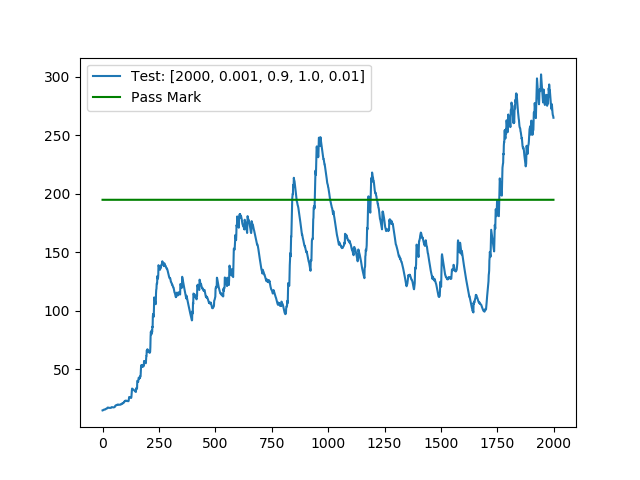
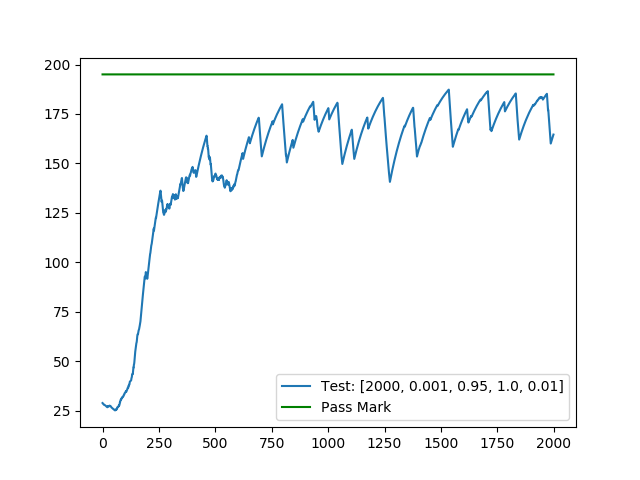
Adding of Testing routines + small changes

diff --git a/cartpole_DQN.py b/cartpole_DQN.py
@@ -1,0 +1,81 @@
+##  Copyright (C) 2018 J. Schurer
+##  This file is for testing the OpenAI gym environments
+
+
+import gym
+import numpy as np
+import scipy as sc
+import matplotlib.pyplot as plt
+from agents.DQNAgent import DQNAgent
+from pylab import *
+
+def low_pass(data, alpha=0.99):
+    low_pass = [data[0]]
+    for i in range(1,len(data)):
+        low_pass.append(alpha*low_pass[-1] + (1.0-alpha)*data[i] )
+    return low_pass
+
+
+if __name__ == '__main__':
+    # Make Evironment
+    env = gym.make('CartPole-v0')
+    
+    # Make Agent
+    episode_count = 3000
+    learnRates = [1e-4, 5e-4, 1e-3] #np.linspace(0.0001,0.001, num=3,endpoint=False)
+    discounts = [ 0.95 ] #[0.95, 0.97, 0.99]#np.linspace(0.94,0.96, num=3,endpoint=False)
+    epsi = [ 1.0]
+    epsi_decay  = [ 0.05, 0.01, 0.005, 0.001 ]
+    reward = 0
+    XlearnRate = 0
+    Xdiscount = 0
+    Xepsi = 0
+    Xdec = 0
+    rewards = []
+    for j in learnRates:
+        for k in discounts:
+            for ep in epsi:
+                for epdec in epsi_decay:
+                    params = [episode_count, j,k, ep, epdec]
+                    #params = [5000, 0.001,0.95, 1.1, 0.005]
+                    #params = [5000, 0.0005,0.99, 0.1]
+                    agent = DQNAgent(env.action_space,env.observation_space, params)
+            
+                    agent._render = False
+                    rewardList, stepList =  agent.train(env)
+                    rewards.append(rewardList)
+                    if reward < sum(rewards[-1])/episode_count:
+                        reward = sum(rewards[-1])/episode_count
+                        mytrainedAgent = agent
+                        XlearnRate = j
+                        Xdiscount = k
+                        Xepsi = ep
+                        Xdec = epdec
+                    plt.plot(low_pass(rewardList),label=("Test: "+str(params)))
+        
+    ## Train Agent
+    #agent._render = False
+    #rewardList, stepList =  agent.train(env)
+    #agent.saveModel(agent.checkpointpath)
+    
+    ## Load Agent
+    #agent.restoreModel(agent.checkpointpath + '.ckpt-20000')
+    #rewardList, stepList = agent.test(env)
+      
+    plot([195]*len(rewards[-1]), 'g', label="Pass Mark")
+    plt.legend()
+    plt.show()
+    print("Maximal Reward: " + str(reward) + "  at lr=" +str(XlearnRate) + "  and dis=" +str(Xdiscount) + "  and epsi=" +str(Xepsi) + "  and epsi_dec=" +str(Xdec))
+
+    
+    ###### TEST   #####
+    reward = []
+    mytrainedAgent.episode_count = 100
+    mytrainedAgent.epsi = mytrainedAgent.epsi_min
+    for kk in range(10):
+        rew, step = mytrainedAgent.test(env)
+        reward.append(sum(rew))
+    print("Average Reward after 100 Episodes: " + str(sum(reward)/(100*10)))
+    
+    #print("Maximal Reward: " + str(reward) + "  at lr=" +str(XlearnRate) + "  and dis=" +str(Xdiscount))
+    env.close()

diff --git a/cartpole.py b/cartpole.py
@@ -1,0 +1,74 @@
+##  Copyright (C) 2018 J. Schurer
+##  This file is for testing the OpenAI gym environments
+
+
+import gym
+import numpy as np
+import scipy as sc
+import matplotlib.pyplot as plt
+from agents.qNNAgent import QNNAgent
+from pylab import *
+
+def low_pass(data, alpha=0.99):
+    low_pass = [data[0]]
+    for i in range(1,len(data)):
+        low_pass.append(alpha*low_pass[-1] + (1.0-alpha)*data[i] )
+    return low_pass
+
+
+if __name__ == '__main__':
+    # Make Evironment
+    env = gym.make('CartPole-v0')
+
+    # Make Agentparams = [episode_count, 0.8,0.8, 0.1]
+    episode_count = 2000
+    learnRates = [1e-3] #[ 1e-4,1e-3,1e-2]#np.linspace(0.0001,0.001, num=3,endpoint=False)
+    discounts = [0.95]#[ 0.90, 0.95, 0.99] #[0.95, 0.97, 0.99]#np.linspace(0.94,0.96, num=3,endpoint=False)
+    epsi = [1.0] #[ 0.1, 1.0]
+    epsi_decay  = [0.01]#[0.001, 0.005, 0.01]
+    reward = 0
+    XlearnRate = 0
+    Xdiscount = 0
+    Xepsi = 0
+    Xdec = 0
+    rewards = []
+    legs = []
+    for j in learnRates:
+        for k in discounts:
+            for ep in epsi:
+                for epdec in epsi_decay:
+                    params = [episode_count, j,k, ep, epdec]
+
+                    agent = QNNAgent(env.action_space,env.observation_space, params)
+                    agent._render = False
+    
+                    # Train Agent
+                    rewardList, stepList =  agent.train(env)
+                    rewards.append(rewardList)
+                    if reward < sum(rewardList[-1])/episode_count:
+                        reward = sum(rewardList[-1])/episode_count
+                        mytrainedAgent = agent
+                        XlearnRate = j
+                        Xdiscount = k
+                        Xepsi = ep
+                        Xdec = epdec
+                    p = plt.plot(low_pass(rewardList),label=("Test: "+str(params)))
+                    legs.append(p)
+
+    pm = plot([195]*len(rewards[-1]), 'g', label="Pass Mark")
+    legs.append(pm)
+    plt.legend()
+    plt.show()
+    print("Maximal Reward: " + str(reward) + "  at lr=" +str(XlearnRate) + "  and dis=" +str(Xdiscount) + "  and epsi=" +str(Xepsi) + "  and epsi_dec=" +str(Xdec))
+
+    
+        ###### TEST   #####
+    reward = []
+    mytrainedAgent.episode_count = 100
+    mytrainedAgent.epsi = mytrainedAgent.epsi_min
+    for kk in range(10):
+        rew, step = mytrainedAgent.test(env)
+        reward.append(sum(rew))
+    print("Average Reward after 100 Episodes: " + str(sum(reward)/(100*10)))
+    
+    #print("Maximal Reward: " + str(reward) + "  at lr=" +str(XlearnRate) + "  and dis=" +str(Xdiscount))

diff --git a/myFrozenLake.py b/myFrozenLake.py
@@ -1,0 +1,84 @@
+##  Copyright (C) 2018 J. Schurer
+##  This file is for testing the OpenAI gym environments
+
+
+
+import gym
+from gym import wrappers
+from agents.qtableAgent import QTableAgent
+from agents.qNNAgent import QNNAgent
+import matplotlib.pyplot as plt
+from pylab import *
+
+def low_pass(data, alpha=0.99):
+    low_pass = [data[0]]
+    for i in range(1,len(data)):
+        low_pass.append(alpha*low_pass[-1] + (1.0-alpha)*data[i] )
+    return low_pass
+    
+
+
+if __name__ == '__main__':
+    # Debug Flags
+    _debugOut = False 
+    _debugPlot = False
+
+    ###### Beginn   #####
+    # Make Evironment
+    env = gym.make('FrozenLake-v0')
+    #method = 0
+    #env.render(mode='human', close=False)
+
+    ###### TRAIN  #####
+    episode_count = 2000
+    #method = 0
+    #learnRates = np.linspace(0.75,0.85, num=3,endpoint=False)
+    #discounts = np.linspace(0.94,0.96, num=3,endpoint=False)
+    method = 1
+    learnRates = [0.2, 0.2, 0.2, 0.3, 0.3, 0.3] #np.linspace(0.2,0.4, num=3,endpoint=True)
+    discounts = [0.99]  #np.linspace(0.99,0.999, num=1,endpoint=True)
+    rewards = []
+    steps = []
+    reward = 0
+    XlearnRate = 0
+    Xdiscount = 0
+    for j in learnRates:
+        for k in discounts:
+            params = [episode_count, j,k,0.1]
+            if method == 0:
+                agent = QTableAgent(env.action_space,env.observation_space, params)
+            elif method == 1:
+                agent = QNNAgent(env.action_space,env.observation_space, params,discreet=True)
+            else:
+                raise ValueError
+            agent._render = False
+            rew, step = agent.train(env)
+            rewards.append(rew)
+            steps.append(step)
+            if reward < sum(rewards[-1])/episode_count:
+                reward = sum(rewards[-1])/episode_count
+                XlearnRate = j
+                Xdiscount = k
+                mytrainedAgent = agent
+            plt.plot(low_pass(rewards[-1]),label=("Test: "+str(j+k)))
+
+
+    plot([0.78]*len(rewards[-1]), 'g', label="Pass Mark")
+    plt.show()
+    print("Maximal Reward: " + str(reward) + "  at lr=" +str(XlearnRate) + "  and dis=" +str(Xdiscount))
+
+    ###### TEST   #####
+    reward = []
+    mytrainedAgent.episode_count = 100
+    for kk in range(10):
+        rew, step = mytrainedAgent.test(env)
+        reward.append(sum(rew))
+    print("Average Reward after 100 Episodes: " + str(sum(reward)/(100*10)))
+
+    ###### END   #####
+    # Close the env and write monitor result info to disk
+    env.close()
+
+    
+
+

diff --git a/agents/qNNAgent.py b/agents/qNNAgent.py
@@ -27,6 +27,7 @@ class QNNAgent(Agent):
         self.epsi = self.params[3]   # Epsilon for greedy picking
         self.epsi_decay = self.params[4]
         self.epsi_min = 0.001
+        self._timeTot = 200
         #define TF graph
         tf.reset_default_graph()
         #graph1 = tf.Graph()
@@ -49,6 +50,7 @@ class QNNAgent(Agent):
         #self.Qout = tf.matmul(self.inputs1,self.W)
         self.predict = tf.argmax(self.Qout,1)
         
+        self.time = 0
         self.currEpisode = 0 # Current training stage epsiode
         self.currQs = None # Current prediction for the Q values using current observation
 
@@ -64,6 +66,7 @@ class QNNAgent(Agent):
         self.session.run(init)
 
     def _act(self, observation):
+        self.time += 1
         if self.discreet:
             observation = self.transformObservation(observation)
         #Choose an action by greedily (with e chance of random action) from the Q-network
@@ -82,7 +85,10 @@ class QNNAgent(Agent):
             observation = self.transformObservation(observation)
             newObservation = self.transformObservation(newObservation)
         # Penalize endings
-        reward = reward if not done else -10
+        if done:
+            if self.time + 1 < self._timeTot:
+                reward = -500.0  # Penalize bad endings
+            self.time = 0
         
         #if done:
         #     print("episode: {}/{}, score: {}, e: {:.2}".format(self.currEpisode, self.episode_count, reward, self.currEpsi))
@@ -100,4 +106,4 @@ class QNNAgent(Agent):
 if __name__ == '__main__':
     import gym
     envCont = gym.make('CartPole-v0')
-    agent = QNNAgent(envCont.action_space,envCont.observation_space, [1000, 0.9, 0.8, 0.1])
+    agent = QNNAgent(envCont.action_space,envCont.observation_space, [1000, 0.9, 0.8, 0.1,0.001])

diff --git a/README.md b/README.md
@@ -6,24 +6,24 @@ For a great introduction into reinforcement learning, see the [Tutorials](https:
 ## Agents
 
 Using this abstract definition of an agent, I implemented the four most common (and simple) agents:
-1. A random acting agent: The singlest agent. Independent on the observation it performs a random action and does not learn.
+1. A random acting agent: The simplest agent. Independent on the observation it performs a random action and does not learn.
 
 2. An agent exploiting a Q-Tabular:
     *  Q-table is a list of values for every state (row) and action (column) possible in the environment. Its values answer the question how good it is to take a given action within a given state. Hence, observing state *s* the action one should take is given by *a = argmax(Q(s,:))*. Usually, one adds some randomness to this predicted action in the learning process to greedily pic an action.
     *  Learning is done using the Bellman equation, *Q(s,a) = r + gamma\*max(Q(s',:))* where *r* is the reward for the action taken and *s'* is the state which follows the action a starting from observation *s*. Here *gamma* is the so-called discount factor which is used to take care of the future possible reward.
-    * In order to allow for continous observation space models, a version of the agent where binning is used is implemented, too.
+    * In order to allow for continuous observation space models, a version of the agent where binning is used is implemented, too.
     
-3. An agent with a (single layer) neural network: Here a neural network is used to learn an approximation to a function which takes an observation (state) and predicts the q-value for all possible actions. Note that in contrast to the q-table approach, one can here also learn to act in a continuous state space. 
-    * Update and learing strategy are the same as for the q-table approach.
-    * The loss which is minimized during training is defined as *L = sum((Q_t - Q)^2)* where the target Q-value *Q_t* is computed as given above by the Bellman eqaution and *Q* is the output of the network for the state *s*. 
+3. An agent with a neural network: Here a neural network is used to learn an approximation to a function which takes an observation (state) and predicts the q-value for all possible actions. Note that in contrast to the q-table approach, one can here also learn to act in a continuous state space. 
+    * Update and learning strategy are the same as for the q-table approach.
+    * The loss which is minimized during training is defined as *L = sum((Q_t - Q)^2)* where the target Q-value *Q_t* is computed as given above by the Bellman equation and *Q* is the output of the network for the state *s*. 
     
-4. A DQN (deep q-network) approach to the reinforcement learning (be aware that for simplicity only a single layer is used). Extenting on the above idea to use a neural network to learn a q-value function, here two further ideas are added:
+4. A DQN (deep q-network) approach to the reinforcement learning (be aware that for simplicity only a single layer is used). Extending on the above idea to use a neural network to learn a q-value function, here two further ideas are added:
     * Experiences Buffer: Storing the past experiences in the form of (observation,action,reward,newObservation,done) in a buffer allows to train the neural network not only on the immediate state and action but also to take the past into account. Drawing a random sample from the buffer further prevents from learning only from the immediate past but from a large set of experiences. In this way, one usually does not train every step taken in the environment but when training is executed one trains on a batch of experiences.
     * Separate (2nd) target network: In order to stabilize the training process, one uses a second neural network which represents the target q-values used to compute the loss during the training process. This migrates the risk of using constantly changing target values to adjust the network by updating the target q-network only on a much slower time scale.  
 
 
 ## Testing the Agents
-In order to test the implemented agents, the openAI gym environments are used. In particular, a discreet environment, the FrozenLake, and a continous environment, the cartpole, are used.
+In order to test the implemented agents, the openAI gym environments are used. In particular, a discreet environment, the FrozenLake, and a continuous environment, the cart-pole, are used.
 
 1. FrozenLake environment 
    1. using the Q-tabular agent. Average Reward after 100 Episodes: 0.655
@@ -31,5 +31,10 @@ In order to test the implemented agents, the openAI gym environments are used. I
    1. using neural network. Average Reward after 100 Episodes: 0.484
      ![Learning Curves](/img/frozenLake_QNN.png)
      
-2. Cartpole environment
-   1. 
+2. Cart-pole environment
+   1. using a simple neural network agent. Average Reward after 100 Episodes: 175.3
+     ![Learning Curves](/img/cartpole_QNN.png)
+   2. using a double DQN with experience buffer. Average Reward after 100 Episodes: 199.348
+       * Note that it is useful to keep a certain percentage of bad endings in the experience buffer (good hint by [Ironhead](http://blog.ironhead.ninja/2016/09/08/openai-cartpole.html)). Otherwise, the network would be over-trained on intermediate steps of the cart-pole game forgetting to stay away from the ending. 
+       * Moreover, it seems important to punish the observation that the pole has fallen with high negative reward. 
+     ![Learning Curves](/img/cartpole_DQN.png)
